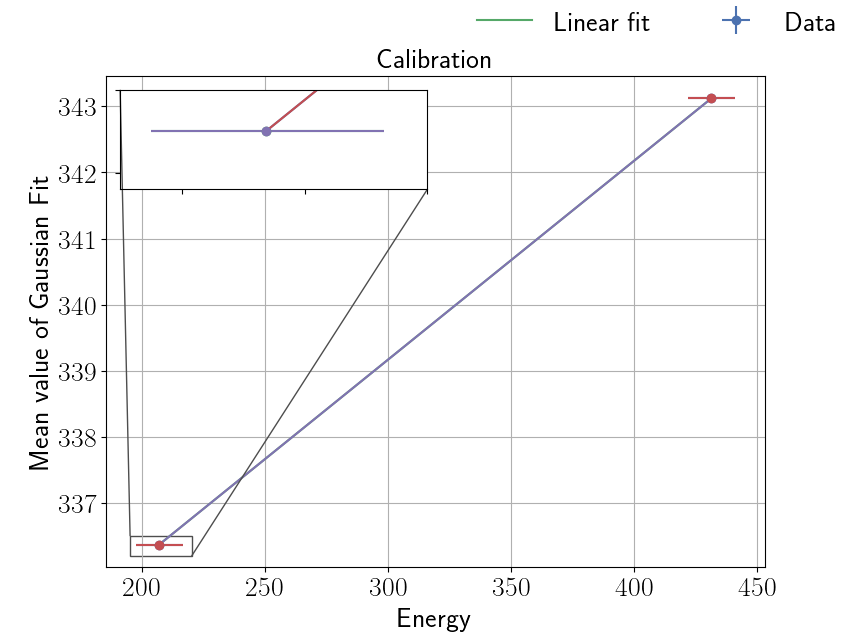
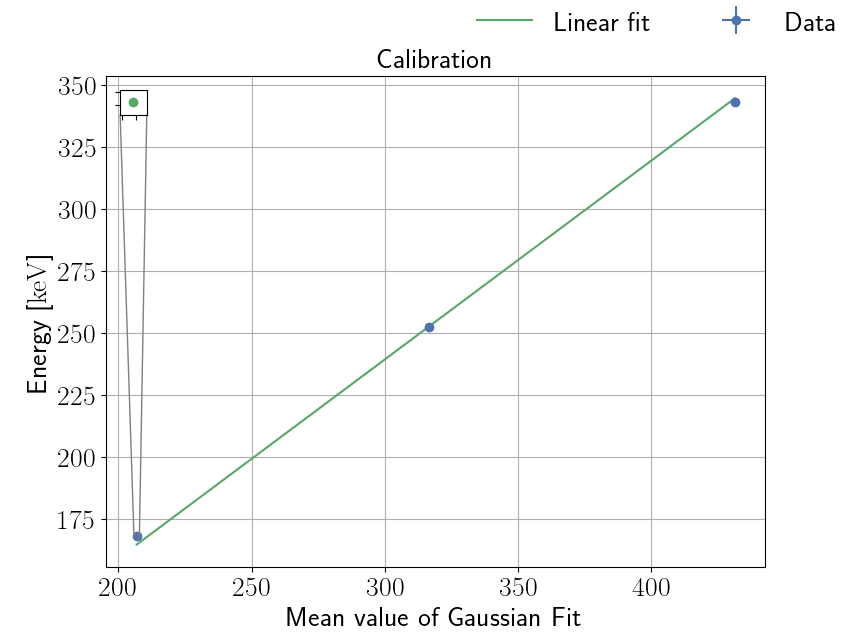
rettelser

diff --git a/ex4/code2.py b/ex4/code2.py
@@ -83,12 +83,19 @@ def linear(x, a, b):
 def linear2(x, a):
     # E = alpha * (k-k0)
     global k0
-    return a * (x - k0)
+    return a * (x - k0[0]) # k0 is a matrix with uncertainty, pick out value
 
 # # # # # # # # # # # # # # Energy for H+ and H2+ # # # # # # # # # # # # # # # 
 def atomic_energy(switch):
     # Incident energy (accelerator)
-    Ei = 350 # keV
+    Ei = 350  # keV
+
+    # Target mass
+    mAu = 196.9665690
+    mC =  12.0107
+
+    # Quanta of mass (assume m(H+)=m(H) and m(H2+)=2m(H)
+    mH = 1.008
 
     # Meassured degree (theoretically, but identical to used experimental
     # setup)
@@ -101,20 +108,15 @@ def atomic_energy(switch):
         *(np.sin(theta))**2))) / (mb+mt))**2) * Ei
     # Meassuring on gold?
     if switch == True:
-        # Target mass
-        mAu = 196.9665690
-    
-        # Quanta of mass (assume m(H+)=m(H) and m(H2+)=2m(H)
-        mH = 1.008
-    
-    
-        # Energies
         E1 = E(mH, mAu)   #H+
-        E2 = E(2*mH, mAu)/2 #H2+
-    
+        E2 = E(2*mH, mAu)/2 # H2+
         return E1, E2
+    elif switch == False:
+        E1 = E(mH, mC)     # H+
+        E2 = E(2*mH, mC)/2 # H2+
+        return E1 # Only this is seen (middle of the 3 Gaussians)
     else:
-        return 
+        print("atomic_energy has a false switch")
 
 # # # # # # # # # # # # # # Energy-Calibration formula # # # # # # # # # # # # 
 def energy_calibration(alpha, k0, k):
@@ -195,8 +197,8 @@ def gaussian_fit(df, file_names, k0_switch, fig_ax_axins):
 
             # Choosing 1 of the many to zoom in on
             if name == "cal2_0.csv":
-                axins.plot(gauss_x, gauss_y, color="crimson")
-                axins.plot(bins, counts, 'o', color="plum")
+                axins.plot(gauss_x, gauss_y, color="blue")
+                axins.plot(bins, counts, 'o', color="red")
 
 
     #alpha
@@ -285,7 +287,7 @@ def linear_fit(x, y, x_error, y_error, k0_switch, fig_ax_axins, *k0):
 
         # The parameters are
         print("""Linear fit parameters are a={:.2f} with an error of
-                {:.2f}""".format(popt[0], perr[0]))
+                {:.5f}""".format(popt[0], perr[0]))
 
     return popt, perr
 
@@ -388,7 +390,7 @@ def k0():
     handles, labels = ax.get_legend_handles_labels()
     fig.legend(handles[:2], labels[:2], loc=1, ncol=2, borderaxespad=0,
             frameon=False)
-    #plt.savefig(Gaussian_fit)
+    plt.savefig("gaussian_fit")
 
 # # # # # # # # # # # # # # # # # # # # # # # # # # # # # # # # # # # # # # # #
 # Linear
@@ -421,7 +423,7 @@ def k0():
     handles, labels = ax.get_legend_handles_labels()
     fig.legend(handles, labels, loc=1, ncol=2, borderaxespad=0, frameon=False)
 
-    #plt.savefig("k0_plotting")
+    plt.savefig("k0_plotting")
     # We fit for (zero-amplitude/b) value, and obtain alpha in other function
     k0_val = b[0]
     k0_error = b[1]
@@ -437,7 +439,11 @@ def alpha(k0):
     k0_switch = False
 
     # Determine Energies
-    E = atomic_energy()
+    E_Au = np.array(atomic_energy(True))
+    E_C = np.array(atomic_energy(False))
+
+    # Combining in right order
+    E = np.array([E_Au[1], E_C, E_Au[0]])
 
 # # # # # # # # # # # # # # # # # # # # # # # # # # # # # # # # # # # # # # # #
 # Gaussian
@@ -485,40 +491,31 @@ def alpha(k0):
     handles, labels = ax.get_legend_handles_labels()
     fig.legend(handles[:2], labels[:2], loc=1, ncol=2, borderaxespad=0, frameon=False)
 
-    #plt.savefig('gaussian_fit2')
+    plt.savefig('gaussian_fit2')
 
 # # # # # # # # # # # # # # # # # # # # # # # # # # # # # # # # # # # # # # # #
 # Linear
 # # # # # # # # # # # # # # # # # # # # # # # # # # # # # # # # # # # # # # # #
 
     # Fitting mean values for gold (1 and 3)
-    x = np.concatenate((mean1[0], mean3[0]), axis=0)
-    x_error = np.concatenate((mean1[1], mean3[1]), axis=0)
+
+    x = np.concatenate(([mean1[0], mean2[0], mean3[0]]), axis=0)
+    x_error = np.concatenate(([mean1[1], mean2[1], mean3[1]]), axis=0)
 
     # Energies for H2+ and H+ (Respectively)
-    y = np.array([E[1], E[0]])
-    y_error = [0.2, 0.2] # Theoretical? No, we meassured energy
-
-    print("x og y")
-    print(x)
-    print(y)
-
-    gradient = (y[1] - y[0]) / (x[1] - x[0])
-    print("Gradienten er {}".format(gradient))
-
-    #print(x)
-    #print(y)
+    y = E
+    y_error = np.ones(np.size(y)) * 0.02 # Theoretical? No, we meassured energy
 
     # Preparing figure
     title = "Calibration"
     xlabel = "Mean value of Gaussian Fit"
-    ylabel = "Energy"
+    ylabel = r"Energy [\si{\kilo\electronvolt}]"
     figure_settings = [title, xlabel, ylabel]
 
     ## Preparing zoom
-    zoom_factor = 11
+    zoom_factor = 5
     zoom_plot_loc = 2
-    xmin, xmax, ymin, ymax = [336.15, 336.6, 16, 18]
+    xmin, xmax, ymin, ymax = [x[0]-1, x[0]+1, y[0]-1, y[0]+1]
     corner1, corner2 = [3, 4]
     zoom_settings = [zoom_factor, zoom_plot_loc, xmin, xmax, ymin, ymax,
             corner1, corner2]
@@ -528,6 +525,7 @@ def alpha(k0):
     fig_ax_axins = [fig, ax, axins]
 
     popt, perr = linear_fit(x, y, x_error, y_error, k0_switch, fig_ax_axins, k0)
+    #ax.errorbar(mean2[0], E_C, xerr=mean2[1], yerr=0.2, fmt='o')
 
     # Only fitting 1 parameter = the incline (alpha)
     a_val   = popt[0]
@@ -538,24 +536,27 @@ def alpha(k0):
     handles, labels = ax.get_legend_handles_labels()
     fig.legend(handles, labels, loc=1, ncol=2, borderaxespad=0, frameon=False)
 
-    #plt.savefig("alpha_plotting")
+    plt.savefig("alpha_plotting")
 
     alpha = a
-    print("alpha is {:.2f} with an uncertainty of {:.2f}".format(alpha[0],
+    print("alpha is {:.2f} with an uncertainty of {:.5f}".format(alpha[0],
         alpha[1]))
 
     return alpha
 
 
-
+def channel_to_energy(alpha, k0, channel):
+    E = alpha * (channel - k0)
+    return(E)
 
 # # # # # # # # # # # # # # Data Analysis # # # # # # # # # # # # # # # # # # #
-def angular_dependence():
+def doublegaussian_fit(plot_switch):
+    """ Here we obtain all parameters of both Gold and Carbon gaussians"""
     # To avoid several function calls:
     k0 = 1.36
     k0_error = 0.15
-    alpha = 0.95
-    alpha_error = 0.32
+    alpha = 0.80
+    alpha_error = 0.00473
 
     # Dataframe (data) + file_names (for itteration)
     df, file_names = Dataframe(data_angles_dir)
@@ -563,8 +564,8 @@ def angular_dependence():
     # Manual labour pt. 3
     file_names.sort()
     detector_angles = np.array([80, 160, 150, 140, 40, 50, 130, 120, 60, 70])
-    detector_angles_sorted = np.array([40, 50, 60, 70, 80, 120, 130, 140, 150,
-        160])
+    #detector_angles_sorted = np.array([40, 50, 60, 70, 80, 120, 130, 140, 150,
+    #    160])
 
     # Defining double gaussian parameters
 
@@ -583,7 +584,10 @@ def angular_dependence():
     gaussian_amplitude_error2 = []
     gaussian_mean_error2      = []
     gaussian_std_error2       = []
+    
+    # Area (all counts) detected (dN) in the solid angle at an angle
 
+    dN  = []
 
     for name in file_names:
         # Choosing non-zero values
@@ -633,13 +637,27 @@ def angular_dependence():
         gaussian_std_error2.append(perr[5])
 
 
-        # Plotting data + fit
-        plt.figure()
-        gauss_x = np.arange(bins[0], bins[-1], 0.001)
-        gauss_y = doublegaussian(gauss_x, *popt)
+        if plot_switch == True:
+            # Plotting data + fit
+            plt.figure()
+            plt.title("Double Gaussian fit")
+            plt.xlabel("Channel number")
+            plt.ylabel("Number of counts")
+            plt.grid()
 
-        plt.plot(gauss_x, gauss_y, label="Gaussian fit")
-        plt.plot(bins, counts, 'o', label="Data")
+            gauss_x = np.arange(bins[0], bins[-1], 0.001)
+            
+            doublegauss_y = doublegaussian(gauss_x, *popt)
+            gauss_C_y     = gaussian(gauss_x, *popt[:3])
+            gauss_Au_y    = gaussian(gauss_x, *popt[3:])
+
+    
+            plt.plot(gauss_x, doublegauss_y, label="Double gaussian fit")
+            plt.plot(gauss_x, gauss_C_y,     label="Single gaussian fit (C)")
+            plt.plot(gauss_x, gauss_Au_y,    label="Single gaussian fit (Au)")
+            plt.plot(bins, counts,           'o', label="Data")
+
+            plt.legend()
 
     # Parameters and uncertainties
     # Carbon
@@ -652,13 +670,59 @@ def angular_dependence():
     np_mean2       = np.array([gaussian_mean2, gaussian_mean_error2])
     np_std2        = np.array([gaussian_std2, gaussian_std_error2])
 
-    harryplotter(detector_angles_sorted)
+    return detector_angles, np_amplitudes1, np_mean1, np_std1, np_amplitudes2, np_mean2, np_std2
 
-    return np_amplitudes1, np_mean1, np_std1, np_amplitudes2, np_mean2, np_std2
+def energy_angle_plot(theta, energy):
+    """ Plotting energy as a function of scattering angle (detector)"""
+    detector_angles = theta
 
-def RutherfordCrossSection(Z1, Z2, theta):
-    E_inf = 350 * 10**(-3) # MeV
-    dsdo = 1.296*((Z1 * Z2) / (E_inf * (np.sin(theta/2))**2) ) **2 # mb/sr
+    # Meassured error
+    theta_error = np.ones(np.size(detector_angles)) * 0.1
+    plt.errorbar(theta, energy, xerr=theta_error, fmt="o")
+
+    return
+
+def RutherfordCrossSection(counts, target_switch):
+    # Defining constants:
+    Z_Au   = 79 # #protons/#atoms
+    Z_C    = 6  # #protons/#atoms
+    Z_p    = 1  # #protons/#atoms
+
+    rho_Au = 19.30 # kg/m3
+    rho_C  = 3.539 # kg/m3
+
+    N_avogadros = 6.022 * 10**(23) # #particles/mol
+    M_Au = 197.96655
+    M_C  = 12.0107
+    # Conversion factor
+    beta = 6.24150913 * 10**(18) # e/C
+
+    # Counts (10**11 counts per coulomb) (READ OFF MACHINE)
+    N = counts * 10**(-11) * beta # [counts] * [C/counts] * [e/C]
+
+    if target_switch == "Au":
+        n = rho_Au * Z_Au * N_avogadros / M_Au
+        # [kg/m3] * [mol/kg] * [#atomer/mol] * [#protoner/#atomer]
+    else: n = rho_C * Z_C * N_avogadros / M_C
+    
+    # Target thickness (read off whiteboard)
+    dx = 25 * 10**(-10) # 25 Angstrom
+
+    
+    # Solid angle
+    # Distance from detector to target
+    r = 49 * 10**(-3) # m
+    # Diameter of detector
+    D = 1.88 * 10**(-3) # m
+    dA = np.pi * (D/2)**2
+
+    domega = dA / r**2 # per definition
+
+    dN = sum(counts)
+
+
+
+    dsdo = (1 / (N*n*dx)) * (dN/domega)
     return dsdo
 
 def harryplotter(theta):
@@ -696,17 +760,45 @@ def harryplotter(theta):
     return 
 
 # # # # # # # # # # # # # # Function calls # # # # # # # # # # # # # # # # # #
+# To avoid several function calls:
+k0_val = 1.36
+k0_error = 0.15
+alpha_val = 0.80
+alpha_error = 0.00473
 
 # Determine k0
-k0 = k0()
-k0_val, k0_error = [k0[0], k0[1]]
+#k0 = k0()
+#k0_val, k0_error = [k0[0], k0[1]]
 
 # Determine alpha
-alpha = alpha(k0_val)
-alpha_val, alpha_error = [alpha[0], alpha[1]]
+#alpha = alpha(k0_val)
+#alpha_val, alpha_error = [alpha[0], alpha[1]]
 
-# Angular dependency
-angular_dependence()
+# Determing gaussian parameters
+plot_switch = True
+detector_angles, A1, mean1, std1, A2, mean2, std2 =\
+doublegaussian_fit(plot_switch)
+
+# Convertion of Channel numbers to Energies (calibration)
+#E_C = channel_to_energy(k0_val, alpha_val, mean1[0])
+#E_Au = channel_to_energy(k0_val, alpha_val, mean2[0])
+#
+#print("The energies of carbon is:")
+#print(E_C)
+#print("The energies of Gold is:")
+#print(E_Au)
+
+# Plotting energy angle dependency
+#plt.figure()
+#plt.grid()
+#plt.xlabel("Angle")
+#plt.ylabel("Energy")
+#energy_angle_plot(detector_angles, E_C)
+#energy_angle_plot(detector_angles, E_Au)
+
+# Rutherford cross sections
+
+
 
 
 
